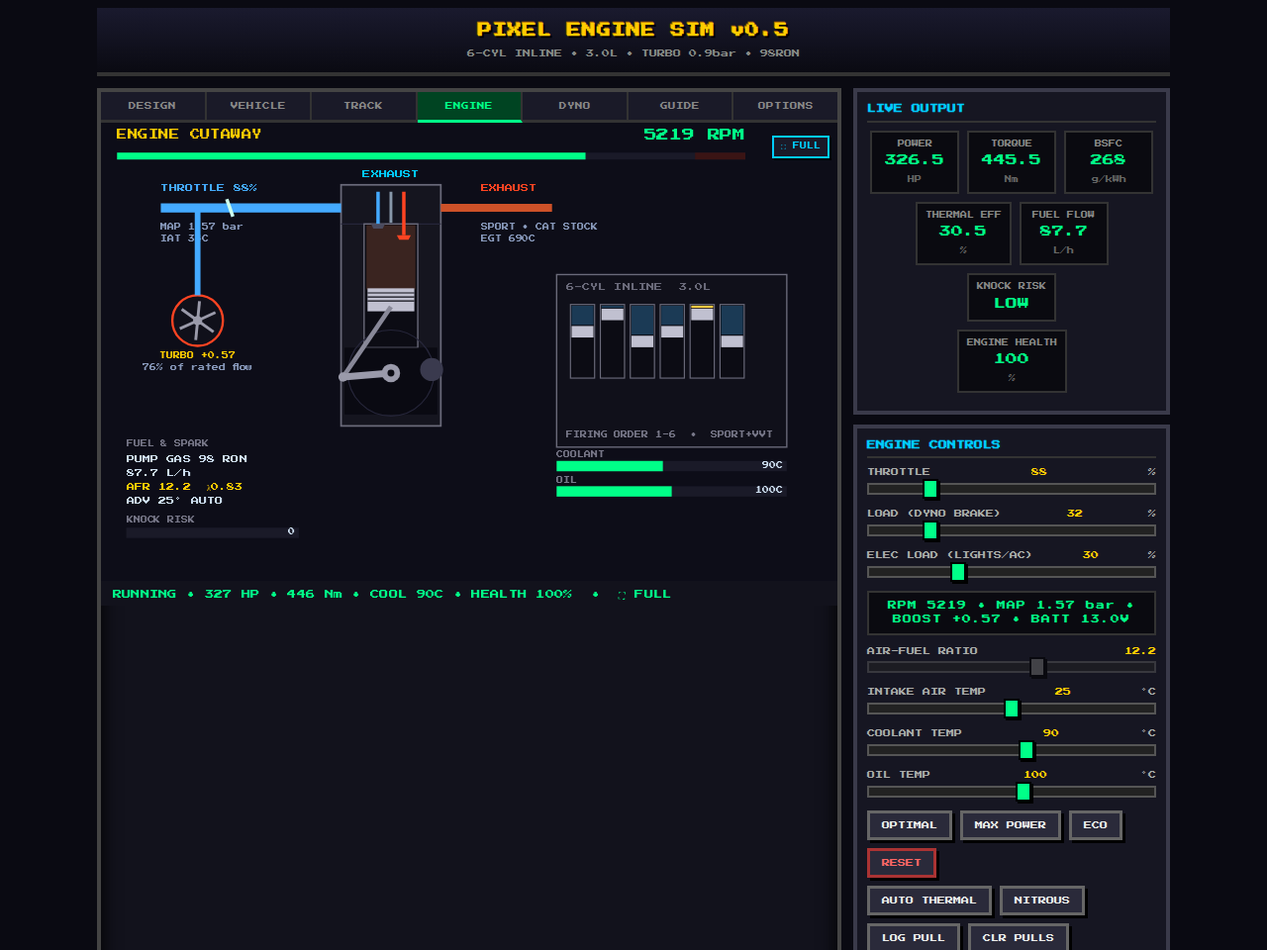
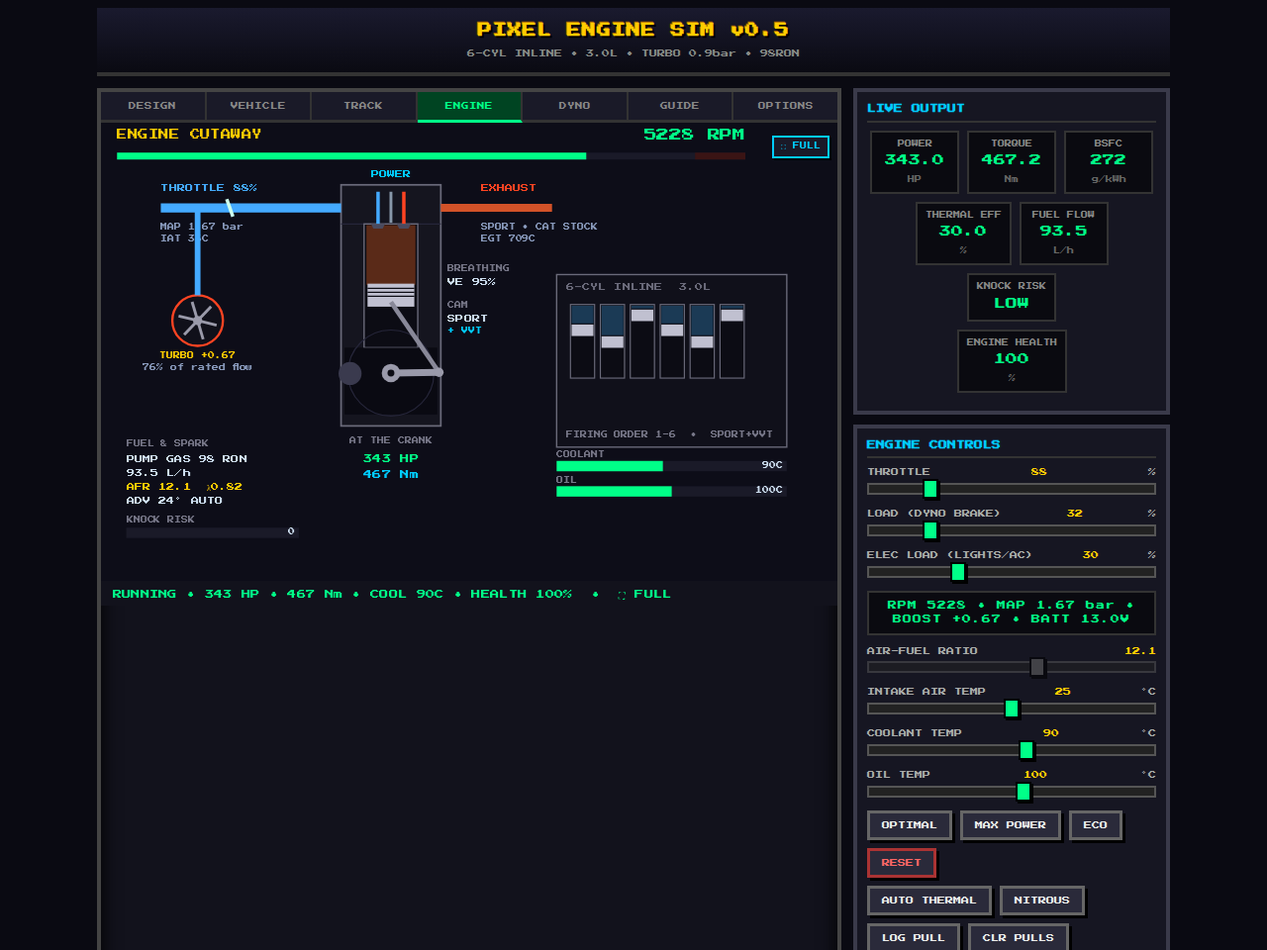
Slow the cutaway to a readable pace, values beside their parts, and bring the roadmap up to date (#43)
* Bring the roadmap up to date with what actually shipped

Every item on the original six-point plan is now done, including (D), which the
roadmap still listed as partial -- the editable 3D ECU fuel map shipped in #28
and pressure-ratio-aware spool with compressor flow limits in #40. Item (A) was
marked "in progress" while its own text ended "That closes the layer."

Adds two sections that were missing rather than stale:

  · Known limits -- the four modelled approximations that are stated rather than
    hidden (spool lag not reaching the accel/lap solvers, the racing line not
    knowing what car is driving it, a lap being a single best-case lap, and
    imported track width being modelled rather than surveyed). Each is measured
    and already documented in the GUIDE; collecting them in one place means the
    roadmap says what the simulator does NOT do, not just what it does.

  · What could come next -- with the honest note that nothing is in progress.

Two corrections to the completed list. "Track objectives" was there twice, added
by successive PRs with slightly different wording. And "V / boxer bank visuals &
firing-order animation" was unchecked but is now partly done: the cutaway's
cylinder strip lays banks out by layout and animates the firing order, while the
large section is still a single upright cylinder whatever the layout -- so that
splits into one done item and one that is not.

Claude-Session: https://claude.ai/code/session_01AEJgmuJne9ALT6jCcxozCn
[…]

diff --git a/index.html b/index.html
@@ -431,8 +431,12 @@ target (RESET MAP restores the factory grid).<br>
 <b>Cooling &amp; electrical</b> — radiator/fan/oil-cooler/thermostat set temps; alternator size and
 ignition type set charging and the misfire RPM limit.<br>
 <b>The ENGINE tab is a live cutaway</b> of the engine you just designed. Everything on it moves
-because the simulation moved it, not on a timer: the crank angle is integrated from the <i>real</i>
-rpm, so a long-stroke diesel lopes and a 9000 rpm screamer blurs. The piston follows proper
+because the simulation moved it. It is deliberately <b>not</b> drawn in real time: a crank at
+5000&nbsp;rpm turns 83 times a <i>second</i>, which at 60&nbsp;fps is a strobe rather than a
+picture — you could not watch a valve open. So the cycle runs at a pace you can read, between
+about 3.3&nbsp;s and 1.1&nbsp;s per full four-stroke cycle, still ranked by rpm so idle is
+visibly lazier than the limiter. The true speed is on the tachometer above it and in the note;
+the animation's job is to make the <i>cycle</i> legible. The piston follows proper
 crank-slider geometry (<i>not</i> a sine wave — a real rod of finite length makes the piston
 linger at the bottom and snap through the top), the bore is drawn to your actual bore/stroke ratio
 so an oversquare engine really is short and wide, and the valves open on true four-stroke timing
@@ -956,6 +960,7 @@ const I18N={
   'OFF THE COMPRESSOR MAP — fit a bigger frame':{el:'ΕΚΤΟΣ ΧΑΡΤΗ ΣΥΜΠΙΕΣΤΗ — βάλε μεγαλύτερο τούρμπο'},
   'at the limit of this frame':{el:'στο όριο αυτού του τούρμπο'},
   // Engine cutaway
+  'AT THE CRANK':{el:'ΣΤΟΝ ΣΤΡΟΦΑΛΟ'},'BREATHING':{el:'ΑΝΑΠΝΟΗ'},'CAM':{el:'ΕΚΚΕΝΤΡΟΦΟΡΟΣ'},
   'ENGINE CUTAWAY':{el:'ΤΟΜΗ ΚΙΝΗΤΗΡΑ'},'INTAKE':{el:'ΕΙΣΑΓΩΓΗ'},'COMPRESSION':{el:'ΣΥΜΠΙΕΣΗ'},
   'POWER/SCAVENGE':{el:'ΙΣΧΥΣ/ΣΑΡΩΣΗ'},'IN':{el:'ΕΙΣ'},'EX':{el:'ΕΞ'},'TURBO':{el:'ΤΟΥΡΜΠΟ'},
   'BLOWER':{el:'ΥΠΕΡΣΥΜΠ.'},'of rated flow':{el:'της παροχής'},'CAT':{el:'ΚΑΤ.'},'EGT':{el:'ΘΕΡΜ.ΕΞ'},
@@ -993,7 +998,7 @@ const GUIDE_I18N={
   scorecard:{el:'<b>ΑΝΑΦΟΡΑ ΓΥΡΟΥ</b> — στην καρτέλα ΠΙΣΤΑ, τα κουμπιά ΑΝΑΦΟΡΑ ΓΥΡΟΥ PNG/PDF αποθηκεύουν τον γύρο ως φύλλο τηλεμετρίας: χάρτης με τα σημεία <span style="color:#1a7f37">τέρμα γκάζι</span> και <span style="color:#c1121f">φρεναρίσματος</span>, κάθε στροφή αριθμημένη, γράφημα ταχύτητας ανά απόσταση, χρόνοι γύρου και τομέων, πλήρης προδιαγραφή αυτοκινήτου και <b>παγίδα ταχύτητας σε κάθε στροφή</b> (είσοδος, apex, έξοδος, σχέση, ακτίνα). Οι στροφές έχουν αριθμούς T1…Tn και ονόματα ανά πίστα.<br><b>ΑΝΑΦΟΡΑ ΔΥΝΑΜΟ</b> — τα κουμπιά ΑΝΑΦΟΡΑ PNG/PDF αποθηκεύουν την τρέχουσα μέτρηση ως εκτυπώσιμο φύλλο με τη διάταξη πραγματικού δυναμόμετρου: καμπύλες ισχύος και ροπής με τις κορυφές, μπάντα αποτελεσμάτων, πλήρη προδιαγραφή κινητήρα, συνθήκες μέτρησης και πίνακα δεδομένων. Οι καταγεγραμμένες μετρήσεις εμφανίζονται αχνά για σύγκριση. Το γράφημα είναι ο κινητήρας <i>όπως είναι ρυθμισμένος τώρα</i>, γι’ αυτό τυπώνεται και το <b>δυναμικό σχεδίασης</b>. Όλα παράγονται εκτός σύνδεσης· τίποτα δεν ανεβαίνει.<br>Κάθε build βαθμολογείται <b>S → F</b> από επτά στοιχεία: ειδική <b>ισχύ</b> & <b>ροπή</b> (ανά λίτρο), εύρος <b>περιοχής ισχύος</b>, θερμική <b>απόδοση</b>, <b>ασφάλεια</b> από πειράκι, <b>οδηγησιμότητα</b> (ροπή στις χαμηλές) και <b>εκπομπές</b>. Το κυνήγι μέγιστης ισχύος κοστίζει σε οδηγησιμότητα, ασφάλεια και εκπομπές — η βαθμολογία επιβραβεύει το ισορροπημένο build.'},
   career:{el:'<b>Στόχοι πίστας</b> κρίνουν ολόκληρο το αυτοκίνητο: τέσσερις βάζουν στόχο χρόνου γύρου σε συγκεκριμένη πίστα, και το μπάτζετ τους καλύπτει κινητήρα <i>και</i> όχημα. Ο πίνακας βαθμολογίας δείχνει επίσης τον χρόνο γύρου σου — ως ένδειξη, όχι μέσα στον βαθμό: ο βαθμός αφορά τον <i>κινητήρα</i> και δεν πρέπει να αλλάζει επειδή έβαλες άλλα ελαστικά.<br>Διάλεξε έναν <b>ΣΤΟΧΟ</b> στην κορυφή της ΣΧΕΔΙΑΣΗΣ για να κάνεις τη σχεδίαση γρίφο. Κάθε πρόκληση θέτει κριτήρια — ισχύ, οικονομία, εκπομπές, <b>αξιοπιστία</b> ή <b>ισχύ ανά δολάριο</b> — και κάποιες βάζουν όριο <b>προϋπολογισμού</b>. Η κάρτα τσεκάρει κάθε κριτήριο ζωντανά (✓/✗) και δείχνει <b>ΕΠΙΤΥΧΙΑ</b> όταν καλυφθούν όλα· κόστος και αξιοπιστία φαίνονται πάντα. Ο μεγάλος κυβισμός κερδίζει σε αξία· boost και αγωνιστικά μέρη κερδίζουν σε ισχύ αλλά κοστίζουν σε χρήμα και αξιοπιστία.'},
   types:{el:'<b>Βενζίνη 4-χρονη</b> — η ισορροπημένη επιλογή: ανάφλεξη με σπινθήρα, μία εκρηκτική διαδρομή ανά δύο στροφές.<br><b>Πετρέλαιο (CI)</b> — ανάφλεξη με συμπίεση (χωρίς μπουζί, χωρίς πειράκι), πολύ υψηλή συμπίεση, φτωχό χωρίς πεταλούδα. Μεγάλη <b>ροπή</b> στις χαμηλές, χαμηλό όριο στροφών, η καλύτερη <b>απόδοση</b> — αλλά βαρύ, με εκπομπές <b>NOx + αιθάλη (PM)</b> που καθαρίζει σύστημα DPF/SCR.<br><b>2-χρονη</b> — εκρηκτική διαδρομή σε <i>κάθε</i> στροφή (θυρίδες, χωρίς εκκεντροφόρο): υψηλή ειδική ισχύς αλλά λαίμαργη και <b>HC</b>-βρόμικη.<br><b>Wankel (ρότορας)</b> — περιστρεφόμενος ρότορας που ανάβει σε κάθε στροφή: ομαλός σαν τουρμπίνα, τεράστιες στροφές, υψηλή ισχύς ανά λίτρο, αλλά λαίμαργος, <b>HC</b>-βαρύς και σκληρός στα ελάσματα κορυφής.<br>Η αλλαγή τύπου προσαρμόζει τα εύρη συμπίεσης/στροφών/AFR και απενεργοποιεί ό,τι δεν ισχύει.'},
-  subsystems:{el:'<b>Κάτω μέρος</b> — τύπος κινητήρα, διάμετρος × διαδρομή × κύλινδροι = κυβισμός· υπερτετράγωνος & υψηλότερο όριο ανεβάζουν την περιοχή ισχύος.<br><b>Διαδρομή αέρα</b> — τούρμπο (γεμίζει με τις στροφές) ή υπερσυμπιεστής (boost από ρελαντί)· το intercooler ψύχει το χάρμανι· εξάτμιση & καταλύτης ανταλλάσσουν ροή με αντίθλιψη/εκπομπές· το νιτρό είναι εμφιαλωμένη ισχύς.<br><b>Το boost δεν είναι δωρεάν, και το τούρμπο έχει μέγεθος.</b> Ένας συμπιεστής παράγει πίεση περιστρεφόμενος, και αυτές οι στροφές πληρώνονται με ενέργεια από την εξάτμιση — άρα <i>όσο περισσότερο boost ζητάς από ένα δεδομένο τούρμπο, τόσο αργότερα έρχεται και τόσο πιο αργά χτίζεται</i>. Το ίδιο μικρό τούρμπο που έχει γεμίσει στις 1200 σ.α.λ. με 0.5 bar δεν φτάνει το μισό των 2.5 bar πριν τις ~3000. Ο αριθμός γεμίσματος στη σύνοψη σχεδίασης αφορά το boost που ζήτησες, δεν είναι σταθερή ιδιότητα του τούρμπο.<br>Κάθε τούρμπο έχει επίσης <b>ονομαστική παροχή</b> — μικρό 32, μεσαίο 55, μεγάλο 82 lb/min, και οι διατάξεις με πολλά τούρμπο περνούν περισσότερο (twin ×1.85, sequential ×1.55, compound ×2.3). Αυτός είναι ο άξονας πάνω στον οποίο σχεδιάζεται ένας πραγματικός χάρτης συμπιεστή. Αν ζητήσεις από τον κινητήρα να περάσει περισσότερο αέρα από όσο αντέχει το τούρμπο, βγαίνεις εκτός χάρτη: η απόδοση του συμπιεστή καταρρέει, οι ψηλές στροφές πνίγονται και — το χειρότερο — το χάρμανι φτάνει <b>καυτό</b>. Η συμπίεση του αέρα τον θερμαίνει κατά <i>T&middot;(PR<sup>0.283</sup> − 1) / απόδοση</i>, που αυξάνεται πιο γρήγορα από το boost και ακόμη περισσότερο καθώς πέφτει η απόδοση. Ένας 2.0 L που ζητά 2.5 bar από μικρό τούρμπο θέλει 1.7× την ονομαστική του παροχή, και το χάρμανι φτάνει στις βαλβίδες στους <b>74 °C</b> εκεί που το σωστό τούρμπο δίνει 58 °C — οπότε κάνει πειράκια, βγάζει 120 hp <i>λιγότερα</i> από το μεσαίο, και είναι πιο αργός στον γύρο από τον ίδιο κινητήρα στα 0.8 bar. Τίποτα δεν σε εμποδίζει να τον φτιάξεις· απλώς δεν είναι έτσι που βγαίνει ισχύς.<br><span style="color:#c86">Ένα όριο: η καθυστέρηση γεμίσματος — ο <i>χρόνος</i> να χτιστεί το boost — μοντελοποιείται στον ζωντανό πάγκο ΚΙΝΗΤΗΡΑ, αλλά οι επιδόσεις και οι χρόνοι γύρου λύνονται από το σταθερό boost που είναι διαθέσιμο σε κάθε στροφή, οπότε βλέπουν το <i>σημείο</i> γεμίσματος να μετακινείται, όχι το μεταβατικό φαινόμενο. Μια πολύ «τεμπέλικη» κατασκευή ευνοείται λίγο στα 0–100 και στον γύρο.</span><br><b>Εισαγωγή</b> — καρμπιρατέρ → EFI → ITB ορίζουν αναπνοή, ακρίβεια & ρελαντί.<br><b>Χρονισμός βαλβίδων</b> — άγριες εκκεντροφόροι ανεβάζουν την ισχύ ψηλά· το VVT επαναφέρει τις χαμηλές.<br><b>Καύσιμο & σπινθήρας</b> — τύπος καυσίμου, οκτάνια, μπεκ, ανάφλεξη, χρονισμός FIXED/AUTO και το μείγμα: MANUAL (ένα σταθερό AFR) ή AUTO — ένας 3D χάρτης ECU που τρέχει κοντά στο στοιχειομετρικό στο ελαφρύ φορτίο και εμπλουτίζει υπό φορτίο/boost, όπως ένας πραγματικός χάρτης καυσίμου. Στο AUTO μπορείς να <b>ρυθμίσεις τον χάρτη</b>: πάτησε ένα κελί και μετά − ΦΤΩΧΟ / + ΠΛΟΥΣΙΟ για να αλλάξεις τον στόχο σε εκείνο το φορτίο×στροφές (ΕΠΑΝΑΦΟΡΑ ΧΑΡΤΗ επαναφέρει το εργοστασιακό).<br><b>Ψύξη & ηλεκτρικά</b> — ψυγείο/βεντιλατέρ/ψυγείο λαδιού/θερμοστάτης ορίζουν θερμοκρασίες· δυναμό & ανάφλεξη ορίζουν φόρτιση και όριο μισφάιρ.<br><b>Η καρτέλα ΚΙΝΗΤΗΡΑΣ είναι ζωντανή τομή</b> του κινητήρα που μόλις σχεδίασες. Όλα κινούνται επειδή τα κίνησε η προσομοίωση, όχι με χρονόμετρο: η γωνία στροφάλου ολοκληρώνεται από τις <i>πραγματικές</i> στροφές, οπότε ένα diesel με μεγάλη διαδρομή «βαραίνει» και ένας κινητήρας των 9000 σ.α.λ. θολώνει. Το έμβολο ακολουθεί σωστή γεωμετρία στροφάλου-διωστήρα (<i>όχι</i> ημίτονο — ένας πραγματικός διωστήρας κάνει το έμβολο να αργοπορεί κάτω και να «κόβει» πάνω), η διάμετρος σχεδιάζεται στη δική σου αναλογία διαμέτρου/διαδρομής, και οι βαλβίδες ανοίγουν με αληθινό χρονισμό τεσσάρων χρόνων, με την επικάλυψη σάρωσης ορατή γύρω από το ΑΝΣ. Ο θάλαμος χρωματίζεται με βάση το τι υπάρχει μέσα του αυτή τη στιγμή — φρέσκο μείγμα, συμπιεσμένο, καιγόμενο, καμένο — και ο χρόνος ονομάζεται πάνω από την κεφαλή. Ένας δίχρονος δείχνει θυρίδες αντί για βαλβίδες· ένας ρότορας δείχνει πραγματικό επιτροχοειδές περίβλημα με τον ρότορα στο 1/3 του εκκεντροφόρου άξονα. Η λωρίδα δίπλα σχεδιάζει κάθε κύλινδρο στη δική του φάση, ώστε να βλέπεις τη σειρά ανάφλεξης σε έναν V12.<br>Οι αριθμοί που τυπώνονταν εδώ σε γράμματα 7 px βρίσκονται πλέον στο πλαίσιο <b>ΖΩΝΤΑΝΗ ΕΞΟΔΟΣ</b> δίπλα στον καμβά, όπου είναι πραγματικό κείμενο.'},
+  subsystems:{el:'<b>Κάτω μέρος</b> — τύπος κινητήρα, διάμετρος × διαδρομή × κύλινδροι = κυβισμός· υπερτετράγωνος & υψηλότερο όριο ανεβάζουν την περιοχή ισχύος.<br><b>Διαδρομή αέρα</b> — τούρμπο (γεμίζει με τις στροφές) ή υπερσυμπιεστής (boost από ρελαντί)· το intercooler ψύχει το χάρμανι· εξάτμιση & καταλύτης ανταλλάσσουν ροή με αντίθλιψη/εκπομπές· το νιτρό είναι εμφιαλωμένη ισχύς.<br><b>Το boost δεν είναι δωρεάν, και το τούρμπο έχει μέγεθος.</b> Ένας συμπιεστής παράγει πίεση περιστρεφόμενος, και αυτές οι στροφές πληρώνονται με ενέργεια από την εξάτμιση — άρα <i>όσο περισσότερο boost ζητάς από ένα δεδομένο τούρμπο, τόσο αργότερα έρχεται και τόσο πιο αργά χτίζεται</i>. Το ίδιο μικρό τούρμπο που έχει γεμίσει στις 1200 σ.α.λ. με 0.5 bar δεν φτάνει το μισό των 2.5 bar πριν τις ~3000. Ο αριθμός γεμίσματος στη σύνοψη σχεδίασης αφορά το boost που ζήτησες, δεν είναι σταθερή ιδιότητα του τούρμπο.<br>Κάθε τούρμπο έχει επίσης <b>ονομαστική παροχή</b> — μικρό 32, μεσαίο 55, μεγάλο 82 lb/min, και οι διατάξεις με πολλά τούρμπο περνούν περισσότερο (twin ×1.85, sequential ×1.55, compound ×2.3). Αυτός είναι ο άξονας πάνω στον οποίο σχεδιάζεται ένας πραγματικός χάρτης συμπιεστή. Αν ζητήσεις από τον κινητήρα να περάσει περισσότερο αέρα από όσο αντέχει το τούρμπο, βγαίνεις εκτός χάρτη: η απόδοση του συμπιεστή καταρρέει, οι ψηλές στροφές πνίγονται και — το χειρότερο — το χάρμανι φτάνει <b>καυτό</b>. Η συμπίεση του αέρα τον θερμαίνει κατά <i>T&middot;(PR<sup>0.283</sup> − 1) / απόδοση</i>, που αυξάνεται πιο γρήγορα από το boost και ακόμη περισσότερο καθώς πέφτει η απόδοση. Ένας 2.0 L που ζητά 2.5 bar από μικρό τούρμπο θέλει 1.7× την ονομαστική του παροχή, και το χάρμανι φτάνει στις βαλβίδες στους <b>74 °C</b> εκεί που το σωστό τούρμπο δίνει 58 °C — οπότε κάνει πειράκια, βγάζει 120 hp <i>λιγότερα</i> από το μεσαίο, και είναι πιο αργός στον γύρο από τον ίδιο κινητήρα στα 0.8 bar. Τίποτα δεν σε εμποδίζει να τον φτιάξεις· απλώς δεν είναι έτσι που βγαίνει ισχύς.<br><span style="color:#c86">Ένα όριο: η καθυστέρηση γεμίσματος — ο <i>χρόνος</i> να χτιστεί το boost — μοντελοποιείται στον ζωντανό πάγκο ΚΙΝΗΤΗΡΑ, αλλά οι επιδόσεις και οι χρόνοι γύρου λύνονται από το σταθερό boost που είναι διαθέσιμο σε κάθε στροφή, οπότε βλέπουν το <i>σημείο</i> γεμίσματος να μετακινείται, όχι το μεταβατικό φαινόμενο. Μια πολύ «τεμπέλικη» κατασκευή ευνοείται λίγο στα 0–100 και στον γύρο.</span><br><b>Εισαγωγή</b> — καρμπιρατέρ → EFI → ITB ορίζουν αναπνοή, ακρίβεια & ρελαντί.<br><b>Χρονισμός βαλβίδων</b> — άγριες εκκεντροφόροι ανεβάζουν την ισχύ ψηλά· το VVT επαναφέρει τις χαμηλές.<br><b>Καύσιμο & σπινθήρας</b> — τύπος καυσίμου, οκτάνια, μπεκ, ανάφλεξη, χρονισμός FIXED/AUTO και το μείγμα: MANUAL (ένα σταθερό AFR) ή AUTO — ένας 3D χάρτης ECU που τρέχει κοντά στο στοιχειομετρικό στο ελαφρύ φορτίο και εμπλουτίζει υπό φορτίο/boost, όπως ένας πραγματικός χάρτης καυσίμου. Στο AUTO μπορείς να <b>ρυθμίσεις τον χάρτη</b>: πάτησε ένα κελί και μετά − ΦΤΩΧΟ / + ΠΛΟΥΣΙΟ για να αλλάξεις τον στόχο σε εκείνο το φορτίο×στροφές (ΕΠΑΝΑΦΟΡΑ ΧΑΡΤΗ επαναφέρει το εργοστασιακό).<br><b>Ψύξη & ηλεκτρικά</b> — ψυγείο/βεντιλατέρ/ψυγείο λαδιού/θερμοστάτης ορίζουν θερμοκρασίες· δυναμό & ανάφλεξη ορίζουν φόρτιση και όριο μισφάιρ.<br><b>Η καρτέλα ΚΙΝΗΤΗΡΑΣ είναι ζωντανή τομή</b> του κινητήρα που μόλις σχεδίασες. Όλα κινούνται επειδή τα κίνησε η προσομοίωση. Δεν σχεδιάζεται όμως σε πραγματικό χρόνο: ένας στρόφαλος στις 5000 σ.α.λ. κάνει 83 στροφές το <i>δευτερόλεπτο</i>, που στα 60 fps είναι στροβοσκόπιο και όχι εικόνα — δεν θα μπορούσες να δεις μια βαλβίδα να ανοίγει. Έτσι ο κύκλος τρέχει με ρυθμό που διαβάζεται, περίπου 3.3 έως 1.1 δευτερόλεπτα ανά πλήρη κύκλο, πάντα καταταγμένος με τις στροφές ώστε το ρελαντί να είναι ορατά πιο νωθρό από το όριο. Η πραγματική ταχύτητα φαίνεται στο στροφόμετρο και ακούγεται στον ήχο. Το έμβολο ακολουθεί σωστή γεωμετρία στροφάλου-διωστήρα (<i>όχι</i> ημίτονο — ένας πραγματικός διωστήρας κάνει το έμβολο να αργοπορεί κάτω και να «κόβει» πάνω), η διάμετρος σχεδιάζεται στη δική σου αναλογία διαμέτρου/διαδρομής, και οι βαλβίδες ανοίγουν με αληθινό χρονισμό τεσσάρων χρόνων, με την επικάλυψη σάρωσης ορατή γύρω από το ΑΝΣ. Ο θάλαμος χρωματίζεται με βάση το τι υπάρχει μέσα του αυτή τη στιγμή — φρέσκο μείγμα, συμπιεσμένο, καιγόμενο, καμένο — και ο χρόνος ονομάζεται πάνω από την κεφαλή. Ένας δίχρονος δείχνει θυρίδες αντί για βαλβίδες· ένας ρότορας δείχνει πραγματικό επιτροχοειδές περίβλημα με τον ρότορα στο 1/3 του εκκεντροφόρου άξονα. Η λωρίδα δίπλα σχεδιάζει κάθε κύλινδρο στη δική του φάση, ώστε να βλέπεις τη σειρά ανάφλεξης σε έναν V12.<br>Οι αριθμοί που τυπώνονταν εδώ σε γράμματα 7 px βρίσκονται πλέον στο πλαίσιο <b>ΖΩΝΤΑΝΗ ΕΞΟΔΟΣ</b> δίπλα στον καμβά, όπου είναι πραγματικό κείμενο.'},
   vehicle:{el:'Στην καρτέλα <b>ΟΧΗΜΑ</b> βάζεις τον κινητήρα σου σε αυτοκίνητο. Διάλεξε <b>σασί</b> και έρχεται με τον <b>εργοστασιακό του εξοπλισμό</b> — τα ελαστικά, ζάντες, φρένα, ανάρτηση, αεροδυναμική και κιβώτιο που θα φορούσε πραγματικά: ένα kei εμφανίζεται με στενά οικονομικά ελαστικά και μικρούς ατσάλινους δίσκους, ενώ ένα hypercar παίρνει φαρδιά semi-slick, carbon-ceramic φρένα και πακέτο αεροτομής/diffuser. Όλα παραμένουν επεξεργάσιμα· το <b>ΕΡΓΟΣΤΑΣΙΑΚΟΣ ΕΞΟΠΛΙΣΜΟΣ</b> τα επαναφέρει.<br><b>Το ΓΚΑΡΑΖ</b> στο κάτω μέρος της καρτέλας κρατά όσα ολοκληρωμένα αυτοκίνητα θέλεις. Δώσε όνομα και πάτησε <b>ΑΠΟΘΗΚΕΥΣΗ ΣΤΟ ΓΚΑΡΑΖ</b> και αποθηκεύεται το σύνολο — το σασί, κάθε εξάρτημα πάνω του, <i>και</i> ο κινητήρας μέσα, μέχρι και ο χειροκίνητα ρυθμισμένος χάρτης καυσίμου. Κάθε κάρτα δείχνει τα βασικά νούμερα που είχε όταν την αποθήκευσες (ισχύ, βάρος, 0–100, τελική, χρόνο γύρου και συνολικό κόστος), οπότε μπορείς να παρατάξεις τρεις κατασκευές και να τις συγκρίνεις χωρίς να ξαναφτιάξεις καμία. Η <b>ΦΟΡΤΩΣΗ</b> επαναφέρει το αυτοκίνητο ακριβώς όπως ήταν· αν γράψεις όνομα που υπάρχει ήδη, η κάρτα του τονίζεται και η αποθήκευση το αντικαθιστά. Αυτό είναι ξεχωριστό από τα <b>ΑΠΟΘΗΚ.</b>/<b>ΦΟΡΤΩΣΗ</b>, που είναι μία μοναδική θέση γρήγορης αποθήκευσης. Μια εγγραφή του γκαράζ είναι η ίδια που γράφει η <b>ΑΠΟΘ. ΑΡΧΕΙΟΥ</b> και μεταφέρει ένα σύνδεσμος κοινοποίησης. Όλα μένουν μόνο σε αυτόν τον browser — αν καθαρίσεις τα δεδομένα ιστότοπου, χάνεται το γκαράζ, και η <b>ΑΠΟΘ. ΑΡΧΕΙΟΥ</b> είναι αυτή που σώζει μια κατασκευή από αυτό.<br>Από εκεί ρυθμίζεις <b>μετάδοση</b> (FWD/RWD/AWD — το AWD ξεκινά καλύτερα), <b>κιβώτιο</b> (τύπος, σχέσεις + ρυθμιστικό τελικής), <b>ελαστικά</b> (τύπος + πλάτος/προφίλ/διάμετρος), <b>αεροδυναμική</b> (εμπρός/πίσω/πάτωμα = κάθετη δύναμη & οπισθέλκουσα), <b>φρένα</b> (τύπος + διάμετρος δίσκου) και <b>ανάρτηση</b> (πολλαπλασιαστής μηχανικής πρόσφυσης).<br><b>Ο τύπος κιβωτίου</b> αλλάζει τέσσερα πράγματα: πόσο κόβεται η μετάδοση σε κάθε αλλαγή, πόση από την ισχύ του κινητήρα φτάνει στους τροχούς, πώς είναι κλιμακωμένες οι σχέσεις, και πώς ξεκινά το αυτοκίνητο.<br>· <b>Χειροκίνητο (H)</b> — το πιο αποδοτικό, αλλά χάνεις ~350 ms σε κάθε αλλαγή. Φθηνό.<br>· <b>Σειριακό</b> — αγωνιστικό: αλλαγές ~60 ms και κοντές σχέσεις που κρατούν έναν «αιχμηρό» κινητήρα στην περιοχή του. Ακριβό.<br>· <b>Διπλού συμπλέκτη (DCT)</b> — η επόμενη σχέση είναι ήδη επιλεγμένη στον δεύτερο συμπλέκτη, άρα σχεδόν αδιάλειπτες αλλαγές (~30 ms). Το ταχύτερο, και ανάλογα ακριβό.<br>· <b>Αυτόματο με μετατροπέα ροπής</b> — οι πιο αργές αλλαγές (~200 ms) και οι μεγαλύτερες απώλειες, γιατί μεταδίδει μέσω υγρού. Το κερδίζει στην <b>εκκίνηση</b>: ο μετατροπέας «φορτίζει» πάνω στα φρένα και <i>πολλαπλασιάζει</i> τη ροπή (έως ~1.9× σε στάλλ 2400 σ.α.λ.), σβήνοντας στο 1:1 καθώς ο στρόβιλος προλαβαίνει. Γι’ αυτό ένα αυτόματο ξεκινά καλύτερα από ένα χειροκίνητο παρότι χάνει ισχύ παντού αλλού — και γι’ αυτό ταιριάζει σε βαρύ, ροπάτο αυτοκίνητο, όχι σε ελαφρύ και «αιχμηρό». Επίσης απλώνει περισσότερο τις σχέσεις: πιο κοντή 1η, πιο μακριά τελευταία.<br><b>Η καρτέλα ΠΙΣΤΑ</b> βάζει το αυτοκίνητο σε κυκλική πίστα και λύνει έναν γύρο. Πρώτα υπολογίζει την <b>ιδανική γραμμή</b>: κανείς δεν οδηγεί στον άξονα της πίστας, γιατί χρησιμοποιώντας όλο το πλάτος «ισιώνει» η στροφή και περνάς πιο γρήγορα. Η γραμμή βρίσκεται ελαχιστοποιώντας τη συνολική καμπυλότητα μέσα στα όρια της πίστας — και το έξω-μέσα-έξω προκύπτει μόνο του. Δύο πράγματα την απομακρύνουν από την καθαρή ελάχιστη καμπυλότητα. Πρώτον, <b>η πίστα δεν έχει ένα πλάτος</b>: κάθε πίστα εδώ στενεύει στα τεχνικά της σημεία και ανοίγει στα γρήγορα, και μια στροφή 7 m απλώς δεν «ισιώνει» όσο μία 13 m — ο αριθμός στον χάρτη είναι το εύρος, και το πλάτος της πίστας είναι ο μέσος όρος. Δεύτερον, το <b>καθυστερημένο apex</b>: ένα μέτρο ακτίνας στην <i>έξοδο</i> αξίζει πολύ περισσότερο από ένα μέτρο στην είσοδο, γιατί η ταχύτητα εξόδου μεταφέρεται σε όλο το μήκος αυτού που ακολουθεί, ενώ στην είσοδο ούτως ή άλλως φρενάρεις. Ο λύτης «τιμολογεί» την καμπυλότητα με βάση το πόσο ανοιχτή είναι η πίστα μπροστά, οπότε θυσιάζει ακτίνα εισόδου για να ισιώσει την έξοδο — μετακινώντας το apex περίπου 11 m αργότερα στις στροφές που βγάζουν σε ευθεία, και αφήνοντας ανέπαφες όσες οδηγούν σε άλλες στροφές. Οι πίστες είναι τρισδιάστατες, οπότε ο γύρος λαμβάνει υπόψη και το <b>υψόμετρο</b>: η βαρύτητα σε κρατά πίσω στην ανηφόρα και σε σπρώχνει στην κατηφόρα, και — το πιο σημαντικό — η <b>κατακόρυφη καμπυλότητα</b>. Σε μια κορυφή το αυτοκίνητο «ελαφραίνει» και χάνει πρόσφυση ακριβώς εκεί που πάει γρήγορα· σε μια κοιλάδα πιέζεται στο οδόστρωμα και περνά πολύ πιο γρήγορα. Μετράει και το πού πέφτουν οι λόφοι: μια ανηφόρα σε ζώνη φρεναρίσματος σε αφήνει να φρενάρεις αργότερα και <i>κερδίζει</i> χρόνο.<br><b>ΕΙΣΑΓΩΓΗ GPX</b> φορτώνει πραγματική πίστα από αρχείο GPX: προβάλλεται σε μέτρα, ξαναδειγματοληπτείται σε σταθερό βήμα και εξομαλύνεται ελαφρά ώστε ο θόρυβος GPS να μη γίνει «στροφές». Το υψόμετρο έρχεται από το αρχείο. Οι εισαγόμενες πίστες μένουν μόνο στον browser σου.<br><span style="color:#c86">Ο χρόνος θα βγει λίγο αργός: ένα αρχείο GPX δεν περιέχει καθόλου πλάτος, οπότε το προφίλ πλάτους <i>μοντελοποιείται</i> από τη χάραξη — οι δρόμοι φτιάχνονται φαρδιοί εκεί που είναι γρήγοροι και στενοί εκεί που είναι τεχνικοί — δεν είναι μετρημένο. Η γραμμή παραμένει προσέγγιση της γραμμής ελάχιστου χρόνου και ο οδηγός δεν κάνει ποτέ λάθος. Χρησιμοποίησέ το για σύγκριση των δικών σου κατασκευών.</span> Αξίζει <b>5–7% του χρόνου γύρου</b> σε σχέση με τον άξονα, και όσο πιο φαρδιά η πίστα τόσο περισσότερο. Μετά βρίσκει την ταχύτητα στροφής σε κάθε σημείο (<i>v = &radic;(μ&middot;(mg + κάθετη δύναμη)&middot;r / m)</i>), μετά δουλεύει ανάποδα από κάθε στροφή για τα σημεία φρεναρίσματος και προς τα εμπρός στην έξοδο με τη διαθέσιμη κίνηση, κρατώντας τη μικρότερη ταχύτητα σε κάθε σημείο. Ο <b>κύκλος τριβής</b> τα δένει: η πρόσφυση που ξοδεύεται στο στρίψιμο δεν είναι διαθέσιμη για επιτάχυνση ή φρενάρισμα. Η χρωματιστή γραμμή στον χάρτη δείχνει τι περιορίζει το αυτοκίνητο σε κάθε σημείο και η λεζάντα αθροίζει τα ποσοστά του γύρου. Ο χρόνος αλλαγής σχέσης χρεώνεται σε κάθε αλλαγή, οπότε ένα αργό κιβώτιο χάνει πραγματικό χρόνο.<br><span style="color:#c86">Ένα όριο: η γραμμή παραμένει μόνο προσέγγιση της γραμμής ελάχιστου <i>χρόνου</i>. Η τάση για καθυστερημένο apex υπολογίζεται από τη γεωμετρία μπροστά, όχι από την ταχύτητα του ίδιου του αυτοκινήτου, οπότε την ίδια γραμμή οδηγεί ένα hatchback 90&nbsp;hp και ένα αγωνιστικό 800&nbsp;hp — ενώ στην πραγματικότητα το γρήγορο θα φρέναρε αργότερα και θα έκανε ακόμα πιο καθυστερημένο apex. Αξίζει περίπου μισό τοις εκατό, και είναι το ίδιο μισό τοις εκατό για όλους, οπότε οι συγκρίσεις μεταξύ κατασκευών παραμένουν έντιμες.</span><br><b>Το διαφορικό</b> μοιράζει την κίνηση στους δύο τροχούς του άξονα — και καθορίζει πόση από την πρόσφυση του άξονα μπορείς πραγματικά να χρησιμοποιήσεις. Οι δύο τροχοί δεν είναι ποτέ φορτωμένοι το ίδιο (κλίση δρόμου, αντίδραση ροπής, στρέψη άξονα, γεωμετρία ανάρτησης), και ένα <b>ανοιχτό</b> διαφορικό δίνει σε κάθε τροχό μόνο όση ροπή αντέχει ο <i>λιγότερο φορτωμένος</i>: στρίβει αυτόν τον τροχό και πετάει τα υπόλοιπα, αφήνοντας περίπου 78% της πρόσφυσης αξιοποιήσιμο <i>στην εκκίνηση</i>. Αυτό το 78% δεν είναι σταθερό — η ασυμμετρία που αντιμετωπίζει προέρχεται κυρίως από την <b>αντίδραση ροπής</b> (στρέψη ημιαξονίων, γεωμετρία ανάρτησης, torque steer), που είναι ανάλογη με τη ροπή που περνά πράγματι από τον άξονα. Στην πρώτη σχέση με πλήρη πολλαπλασιασμό είναι στο χειρότερό της· στην τρίτη στα 100&nbsp;χλμ/ώρα ο άξονας βλέπει ένα κλάσμα αυτής της ροπής και μένει λίγο παραπάνω από την κλίση του δρόμου, οπότε το ανοιχτό διαφορικό ανακτά προς ~94%. Ένα <b>ιξώδες LSD</b> τους δένει μεταξύ τους και ανακτά τα περισσότερα (~92%)· ένα <b>LSD με δίσκους</b> ουσιαστικά όλα· ένα <b>μπλοκέ (spool)</b> τους ενώνει μόνιμα και είναι το καλύτερο σε ευθεία — γι’ αυτό το χρησιμοποιούν τα dragster.<br>Το βασικό: το διαφορικό μετράει μόνο όσο είσαι <b>περιορισμένος από πρόσφυση</b>. Βάλε spool σε αργό αυτοκίνητο και δεν αλλάζει τίποτα. Βάλ’ το σε ένα που πατινάρει στην εκκίνηση και αξίζει περισσότερο από αναβάθμιση ισχύος.<br><b>Γιατί ένα προσθιοκίνητο ξεμένει από πρόσφυση τόσο νωρίς.</b> Τρία πράγματα πολλαπλασιάζονται, και το πρώτο ξαφνιάζει: ένα FWD κινεί μόνο τον εμπρός άξονα, που σηκώνει περίπου το 60% του βάρους σταματημένο — και η επιτάχυνση μεταφέρει βάρος <i>μακριά</i> από αυτόν, στο ~53%. Πολλαπλασίασε με ανοιχτό διαφορικό (0.78) και οικονομικά ελαστικά (μ 0.81) και όλο το αυτοκίνητο περιορίζεται στα <b>0.33&nbsp;g</b>, ό,τι κι αν βγάζει ο κινητήρας. Στα 100&nbsp;χλμ/ώρα αυτό το ταβάνι είναι ~2500&nbsp;N, και ήδη ένας κινητήρας 109&nbsp;hp ζητά 2700&nbsp;N — οπότε μια έκδοση 217&nbsp;hp του ίδιου αυτοκινήτου φτάνει τα 100&nbsp;χλμ/ώρα στον <i>ίδιο ακριβώς χρόνο</i>. Και τα δύο απλώς «κάθονται» στο ταβάνι. Δεν είναι ιδιοτροπία της προσομοίωσης· γι’ αυτό κανείς δεν φτιάχνει προσθιοκίνητο kei 200&nbsp;hp. Η λύση είναι πρόσφυση, όχι ισχύς — στο ίδιο αυτοκίνητο των 217&nbsp;hp: μόνο ένα LSD με δίσκους το πάει από 9.9&nbsp;s σε 8.0&nbsp;s, σπορ ελαστικά 6.6&nbsp;s, slick 5.5&nbsp;s, και μετατροπή σε AWD 4.4&nbsp;s. Με τον ίδιο κινητήρα.<br>Και τώρα το αντιστάθμισμα μετριέται. Στην καρτέλα ΠΙΣΤΑ ένα μπλοκέ διαφορικό πληρώνει το πλεονέκτημά του στην ευθεία: τρίβει σε κάθε στροφή. Σε ένα muscle 842&nbsp;hp το spool είναι ~0.2&nbsp;s ταχύτερο στο 0–100 και ~2.5&nbsp;s <i>πιο αργό</i> ανά γύρο, ενώ το ανοιχτό είναι το χειρότερο και στα δύο.<br><b>Ο αριθμός της τελικής</b> — το ρυθμιστικό 0–100 είναι η <b>σχέση τελικής μετάδοσης</b>, πόσες φορές γυρίζει ο άξονας ανά στροφή των τροχών. Πάει από <b>0 = 4.90:1</b> (η <i>κοντύτερη</i>) έως <b>100 = 2.60:1</b> (η <i>μακρύτερη</i>)· η σχέση φαίνεται δίπλα στον αριθμό. Κοντή τελική πολλαπλασιάζει τη ροπή στους τροχούς: δυνατότερη επιτάχυνση, αλλά κάθε σχέση τελειώνει νωρίς. Μακριά τελική κάνει το αντίθετο: πιο νωθρή επιτάχυνση, περισσότερη ταχύτητα ανά 1000 στροφές και ήρεμο ταξίδι. Ιδανική είναι η πιο μακριά που ο κινητήρας μπορεί ακόμα να τραβήξει ως την κορυφή της ισχύος του στην τελευταία σχέση. Πιο μακριά από αυτό, η τελική ταχύτητα απλώς <i>σταματά να βελτιώνεται</i> — το αυτοκίνητο πιάνει το μέγιστό του μια σχέση χαμηλότερα αντί να «πνίγεται» στην τελευταία — ενώ η επιτάχυνση συνεχίζει να χειροτερεύει, οπότε πληρώνεις χωρίς όφελος. Πολλή ισχύς και λίγη οπισθέλκουσα σηκώνουν πολύ μακριά τελική και κερδίζουν ταχύτητα ως το τέρμα· βαριά, αδύναμα ή αεροδυναμικά «βρώμικα» αυτοκίνητα φτάνουν γρήγορα σε πλατό και θέλουν κοντύτερη.<br>Ο κινητήρας προστίθεται και το ταμπλό <b>Επιδόσεις</b> υπολογίζει <b>0–100 km/h</b>, <b>400/800/1000 m</b>, <b>τελική</b>, <b>φρενάρισμα 100–0</b> και το τεστ <b>0–200–0</b> ζωντανά — εκκίνηση περιορισμένη από πρόσφυση και φρενάρισμα με όριο ελαστικών/φρένων και εξασθένηση. Κολλώδη ελαστικά, μεγάλα φρένα και AWD βοηθούν πιο πολύ.'},
   tip:{el:'Συμβουλή: κλείσε τη ΦΘΟΡΑ στις ΕΠΙΛΟΓΕΣ για ελεύθερο πειραματισμό, μετά ξανάνοιξέ την για συνέπειες.'}
 };
@@ -4083,6 +4088,9 @@ let crankAngle=0;          // radians, 0..4π for a four-stroke cycle (720°)
 let rotorAngle=0;          // rotary output shaft
 let flashT=0;              // combustion flash decay, seconds
 let turboAngle=0;
+// Seconds-per-cycle is the reciprocal of these: 0.30 -> a 3.3 s cycle at idle, 0.90 -> 1.1 s at
+// the limiter. Slow enough to follow a valve opening, quick enough that the limiter feels urgent.
+const ANIM_SLOW=0.30, ANIM_FAST=0.90;
 // Phase within the cycle. cyl 0 is the one drawn large; the rest are offset by the firing interval.
 function cylPhase(i,n,cycle){return (crankAngle+i*cycle/n)%cycle;}
 // Crank-slider: piston position from crank angle, as a fraction of stroke below TDC.
@@ -4108,13 +4116,23 @@ function drawEngine(dt){
   const e=engine,m=liveMap(),rpm=state.rpm;
   const rotary=e.type==='rotary',two=e.type==='twostroke';
   const cycle=(two||rotary)?Math.PI*2:Math.PI*4;          // radians per full cycle
-  // Advance the crank at the real rate, but cap the on-screen rate so a 9000 rpm engine reads as
-  // "fast" rather than as strobing nonsense at 60 fps.
-  const radPerSec=state.blown?0:(rpm/60)*Math.PI*2;
-  const shown=Math.min(radPerSec,Math.PI*2*22);
-  crankAngle=(crankAngle+shown*dt)%cycle;
-  rotorAngle=(rotorAngle+shown*dt/3)%(Math.PI*2);         // rotor turns at 1/3 shaft speed
-  turboAngle=(turboAngle+(2+clamp(Math.max(0,m-1)/1.5,0,1)*26+clamp(rpm/e.redline,0,1)*10)*dt)%(Math.PI*2);
+  // ---- Animation speed is deliberately NOT real time ----
+  // A crank at 5000 rpm turns 83 times a SECOND. Drawn literally at 60 fps that is a strobe, not
+  // a picture — you cannot see a piston move, let alone a valve open. This is a diagram of what
+  // the engine is doing, so it runs at a pace you can actually read: one full four-stroke cycle
+  // takes between ANIM_SLOW and ANIM_FAST seconds. It still RANKS with rpm, so idle is visibly
+  // lazier than the limiter, but it never blurs. The true speed is on the tachometer above it
+  // and in the engine note — the animation's job is to make the CYCLE legible.
+  const cyclesPerSec=(r)=>{
+    const f=clamp((r-e.idleRpmEff)/Math.max(1,e.redline-e.idleRpmEff),0,1);
+    return ANIM_SLOW+(ANIM_FAST-ANIM_SLOW)*f;              // full cycles per second on screen
+  };
+  const rate=state.blown?0:cyclesPerSec(rpm)*cycle;        // radians of crank per second
+  crankAngle=(crankAngle+rate*dt)%cycle;
+  rotorAngle=(rotorAngle+rate*dt/3)%(Math.PI*2);           // rotor turns at 1/3 shaft speed
+  // The turbo is geared to the same clock, so it visibly picks up with boost without spinning
+  // into a blur of its own.
+  turboAngle=(turboAngle+(state.blown?0:(0.6+clamp(Math.max(0,m-1)/1.5,0,1)*2.2)*Math.PI*2)*dt)%(Math.PI*2);
   if(flashT>0)flashT-=dt;
 
   const deg=crankAngle*180/Math.PI;                        // 0..720 for a four-stroke
@@ -4221,6 +4239,13 @@ function drawPistonCutaway(px,py,S,F,LW,deg,nCyl,rodRatio,bsr,two,m,detailed){
   ctx.fillStyle=C.metalLight;ctx.beginPath();ctx.arc(px(crankX),py(crankPinY),4*S,0,6.284);ctx.fill();
   ctx.fillStyle=C.metalLight;ctx.beginPath();ctx.arc(px(cx),py(crankY),8*S,0,6.284);ctx.fill();
   ctx.fillStyle='#0c0c14';ctx.beginPath();ctx.arc(px(cx),py(crankY),3*S,0,6.284);ctx.fill();
+  // what the crank is actually delivering, written on the crank
+  ctx.font=F(7);ctx.textAlign='center';
+  ctx.fillStyle='#778';ctx.font=F(6);ctx.fillText(tr('AT THE CRANK'),px(cx),py(crankY+62));
+  ctx.font=F(8);
+  ctx.fillStyle=C.green;ctx.fillText(state.powerHP.toFixed(0)+' HP',px(cx),py(crankY+78));
+  ctx.fillStyle=C.cyan;ctx.fillText(state.torque.toFixed(0)+' Nm',px(cx),py(crankY+92));
+  ctx.textAlign='left';
 
   // ---- head: valves (or ports on a two-stroke) ----
   const headTop=headY+6;
@@ -4260,7 +4285,18 @@ function drawPistonCutaway(px,py,S,F,LW,deg,nCyl,rodRatio,bsr,two,m,detailed){
   const strokeName=two?(d<170?tr('COMPRESSION'):tr('POWER/SCAVENGE'))
     :(d<180?tr('INTAKE'):d<360?tr('COMPRESSION'):d<540?tr('POWER'):tr('EXHAUST'));
   ctx.fillStyle=C.cyan;ctx.font=F(7);ctx.textAlign='center';
-  ctx.fillText(strokeName,px(cx),py(headY-6));ctx.textAlign='left';
+  ctx.fillText(strokeName,px(cx),py(headY-6));
+  // volumetric efficiency belongs on the cylinder — it IS how well this bore is breathing
+  ctx.textAlign='left';
+  // VE and the cam sit in the clear column beside the casting — next to the parts they describe,
+  // but outside the drawing so neither is obscured.
+  const labX=cx+bore/2+26;
+  ctx.font=F(6);ctx.fillStyle='#778';ctx.fillText(tr('BREATHING'),px(labX),py(boreTop+38));
+  ctx.font=F(7);ctx.fillStyle='#cde';ctx.fillText('VE '+(state.ve*100).toFixed(0)+'%',px(labX),py(boreTop+50));
+  ctx.font=F(6);ctx.fillStyle='#778';ctx.fillText(tr('CAM'),px(labX),py(boreTop+70));
+  ctx.font=F(7);ctx.fillStyle='#cde';
+  ctx.fillText(e.ports?tr('PORTS'):e.cam.toUpperCase(),px(labX),py(boreTop+82));
+  if(e.vvt&&!e.ports){ctx.font=F(6);ctx.fillStyle=C.cyan;ctx.fillText('+ VVT',px(labX),py(boreTop+92));}
 
   // ---- intake tract with a throttle butterfly ----
   const portYc=headY+20, itX=cx-bore/2-20;

diff --git a/README.md b/README.md
@@ -138,8 +138,11 @@ saps power; a large radiator, electric fan and oil cooler keep it cool.
 
   ![engine cutaway](docs/cutaway.png)
 
-  - **Crank angle is integrated from real rpm**, not from a timer, so a long-stroke diesel lopes
-    and a 9000 rpm screamer blurs. It stops dead when the engine does.
+  - **Deliberately not real time.** A crank at 5000 rpm turns 83 times a *second*; drawn
+    literally at 60 fps that is a strobe, not a picture. The cycle runs at a readable pace —
+    about 3.3 s down to 1.1 s per full four-stroke cycle — still ranked by rpm so idle is
+    visibly lazier than the limiter, and it stops dead when the engine does. The true speed is
+    on the tachometer and in the note; the animation's job is to make the *cycle* legible.
   - **Proper crank-slider geometry** — `x = r(1−cosθ) + L − √(L²−r²sin²θ)`, not a sine wave. A
     connecting rod of finite length makes the piston linger at the bottom and snap through the
     top; at quarter-crank it is at 0.58 of stroke where a sine would say 0.50.
@@ -561,37 +564,58 @@ philosophy).
 
 ## Roadmap / Future Expansion
 
-### Next round — planned build order
+### The original feature plan — all shipped
 
-1. ~~Engine presets / example gallery~~ ✅ **done** — a **LOAD A PRESET** dropdown with 10
-   popular archetypes (1.6 sport, kei turbo, hot-hatch, ITB screamer, RS5-turbo, 2JZ six,
-   muscle V8, blown V8, V12 supercar, eco turbo).
-2. **(D) Forced-induction & tuning depth** — ✅ turbo configs (twin/sequential/compound),
-   supercharger types (roots/screw/centrifugal), anti-lag and nitrous are **done**; 2D
-   fuel/ignition map editor still to come (Auto timing already covers ignition-map behaviour).
-3. ~~**(E) Emissions & sound**~~ ✅ **done** — engine-out CO / HC / NOx vs mixture &
-   combustion temperature, a **catalytic converter** design option and a stoich-window
-   three-way conversion model, a live analyser readout + an emissions score, and a
-   character-driven **lope/burble** on the engine note.
-4. ~~**(C) Strategy layer**~~ ✅ **done** — per-part costs, a total build budget, a design
-   reliability index and power-per-dollar, plus eight objective-based challenges (power,
-   economy, emissions, reliability, power-per-dollar…) with live pass/fail.
-5. ~~**(B) New engine types**~~ ✅ **done** — diesel (compression ignition), rotary/Wankel and
-   2-stroke, each with its own firing frequency, fuelling, efficiency, emissions and sound.
-6. **(A) Vehicle / drivetrain layer** — 🚧 *in progress.* **Done:** chassis, drivetrain
-   (FWD/RWD/AWD), gearbox, tyres, aero, weight, **brakes and suspension** → **acceleration
-   (0–100 km/h, 400/800/1000 m), top speed, 100–0 braking and the 0–200–0 test**, plus
-   **per-chassis factory fitment** (each chassis ships with matching tyres/wheels/brakes/
-   suspension/aero) and a REFIT button, **gearbox types** (manual / sequential / DCT /
-   torque-converter auto) and **differential types** (open / viscous LSD / clutch LSD / spool).
-   and a **test track** (four circuits, a full cornering/friction-circle lap solver with a
-   late-apex racing line and variable track width, sector splits and a limit-coloured map) —
-   which also prices the spool's cornering penalty properly. Lap time now feeds the **challenge
-   system and the scorecard**, and a **garage** keeps any number of named chassis+engine combos
-   side by side. That closes the layer.
+1. ~~Engine presets / example gallery~~ ✅ — a **LOAD A PRESET** dropdown with popular
+   archetypes (1.6 sport, kei turbo, hot-hatch, ITB screamer, RS5-turbo, 2JZ six, muscle V8,
+   blown V8, V12 supercar, eco turbo, diesels, rotaries, two-stroke).
+2. ~~**(D) Forced-induction & tuning depth**~~ ✅ — turbo configs (twin/sequential/compound),
+   supercharger types (roots/screw/centrifugal), anti-lag, nitrous, an **editable 3D ECU fuel
+   map** (tap a load×rpm cell, − LEAN / + RICH, RESET MAP), and pressure-ratio-aware spool with
+   compressor flow limits. *Ignition is covered by the Auto (MBT-tracking, knock-limited) timing
+   model rather than a hand-editable spark map — see below.*
+3. ~~**(E) Emissions & sound**~~ ✅ — engine-out CO / HC / NOx vs mixture & combustion
+   temperature, a **catalytic converter** with a stoich-window three-way conversion model, a live
+   analyser readout, an emissions score, and a character-driven **lope/burble** on the note.
+4. ~~**(C) Strategy layer**~~ ✅ — per-part costs, build budgets, a design reliability index and
+   power-per-dollar, plus objective-based challenges with live pass/fail — including four that
+   judge the **whole car against the clock** on a circuit.
+5. ~~**(B) New engine types**~~ ✅ — diesel (compression ignition), rotary/Wankel and 2-stroke,
+   each with its own firing frequency, fuelling, efficiency, emissions and sound.
+6. ~~**(A) Vehicle / drivetrain layer**~~ ✅ — chassis, drivetrain, gearbox types, differential
+   types, tyres, aero, weight, brakes and suspension → acceleration, top speed, braking and the
+   0–200–0 test, with **per-chassis factory fitment**; a **test track** (four circuits, a
+   friction-circle lap solver with a late-apex racing line, variable width and 3D elevation,
+   sector splits and a limit-coloured map); lap time feeding the **challenge system and
+   scorecard**; and a **garage** holding any number of named chassis+engine combos.
 
-Deferred: V/boxer bank visuals (cosmetic);
-native Android build (parked).
+### Known limits — the honest list
+
+These are modelled approximations that are *stated* rather than hidden, each one measured and
+documented in the GUIDE at the point where it matters:
+
+- **Turbo lag doesn't reach the performance numbers.** Spool time is integrated on the live
+  ENGINE bench, but `simulateAccel` and `simulateLap` both work from the steady boost available
+  at each rpm, so they feel the spool *point* move and not the transient. A very laggy build is
+  flattered a little by its 0–100 and lap times.
+- **The racing line doesn't know what car is driving it.** The late-apex bias is priced from the
+  geometry ahead, not the car's own speed, so a 90 hp hatchback and an 800 hp aero car take the
+  same line. It is the same half-percent for everyone, so build-to-build comparisons stay honest.
+- **A lap is a single best-case lap** — no tyre wear, no fuel burn, no traffic, no driver error.
+- **Imported circuits have modelled width, not surveyed width**, derived from the layout.
+
+### What could come next
+
+Nothing is in progress. Candidates, roughly in order of how much they'd add:
+
+- **Charge the acceleration and lap solvers for spool lag**, closing the first limit above. It
+  needs a transient pass rather than the current per-rpm steady solve.
+- **A hand-editable ignition map**, to match the fuel map editor — the last piece of item 2.
+- **Tyre wear and fuel burn over a stint**, turning the single best-case lap into a run.
+- **V/boxer geometry in the large cutaway.** The bank strip already lays cylinders out by layout
+  (a V12 shows two banks of six, a boxer two opposed pairs), but the big section is still a single
+  upright cylinder whatever the layout — a real V-angle or opposed section would finish it.
+- **Native Android wrap** (Capacitor/TWA) — parked, not abandoned.
 
 ### Completed
 
@@ -603,11 +627,12 @@ native Android build (parked).
 - [x] Sound (Web Audio API engine note)
 - [x] Pressure-ratio-aware turbo spool, compressor flow limits and real charge heating
 - [x] Torque-scaled axle asymmetry, and acceleration calibrated against six real cars
-- [x] Animated engine cutaway driven by real crank angle, at device resolution
+- [x] Animated engine cutaway at a readable pace, with live values beside each part, at device resolution
 - [x] Save / load engine setups
 - [x] Garage: any number of named chassis+engine combos, with per-build stat cards
 - [x] Mobile app packaging (PWA)
-- [ ] Proper V / boxer bank visuals & firing-order animation
+- [x] Firing-order animation and V / boxer bank layout in the cutaway's cylinder strip
+- [ ] V-angle / opposed geometry in the *large* cutaway section (still one upright cylinder)
 - [x] Cam profiles & valvetrain (stock/sport/race cam + VVT, reshaping the VE curve & idle)
 - [x] Turbo lag / spool modelling vs. RPM (turbo size, spool curve, transient lag)
 - [x] Cooling subsystem (radiator size, fan, oil cooler, thermostat) feeding the thermal model
@@ -638,7 +663,6 @@ native Android build (parked).
 - [x] Track elevation: gradient, slope-adjusted load and crest/compression vertical curvature, with an elevation profile on the lap report
 - [x] GPX circuit import (projection, uniform resampling, smoothing, real elevation) with localStorage persistence
 - [x] Nordschleife in the track pack (20.4 km, 290 m elevation) — a real road course as a benchmark
-- [x] Track objectives (lap targets on named circuits, whole-car budgets) + lap time on the scorecard
 - [x] Track objectives (lap targets on named circuits, budgeting the whole car) + lap time on the scorecard
 - [x] Printable dyno report (PNG + library-free PDF) with chart, peaks, engine spec, run conditions and tabulated data
 - [x] Printable hot lap report: map with throttle/braking highlighted, speed trace, sector times, per-corner speed traps with names
